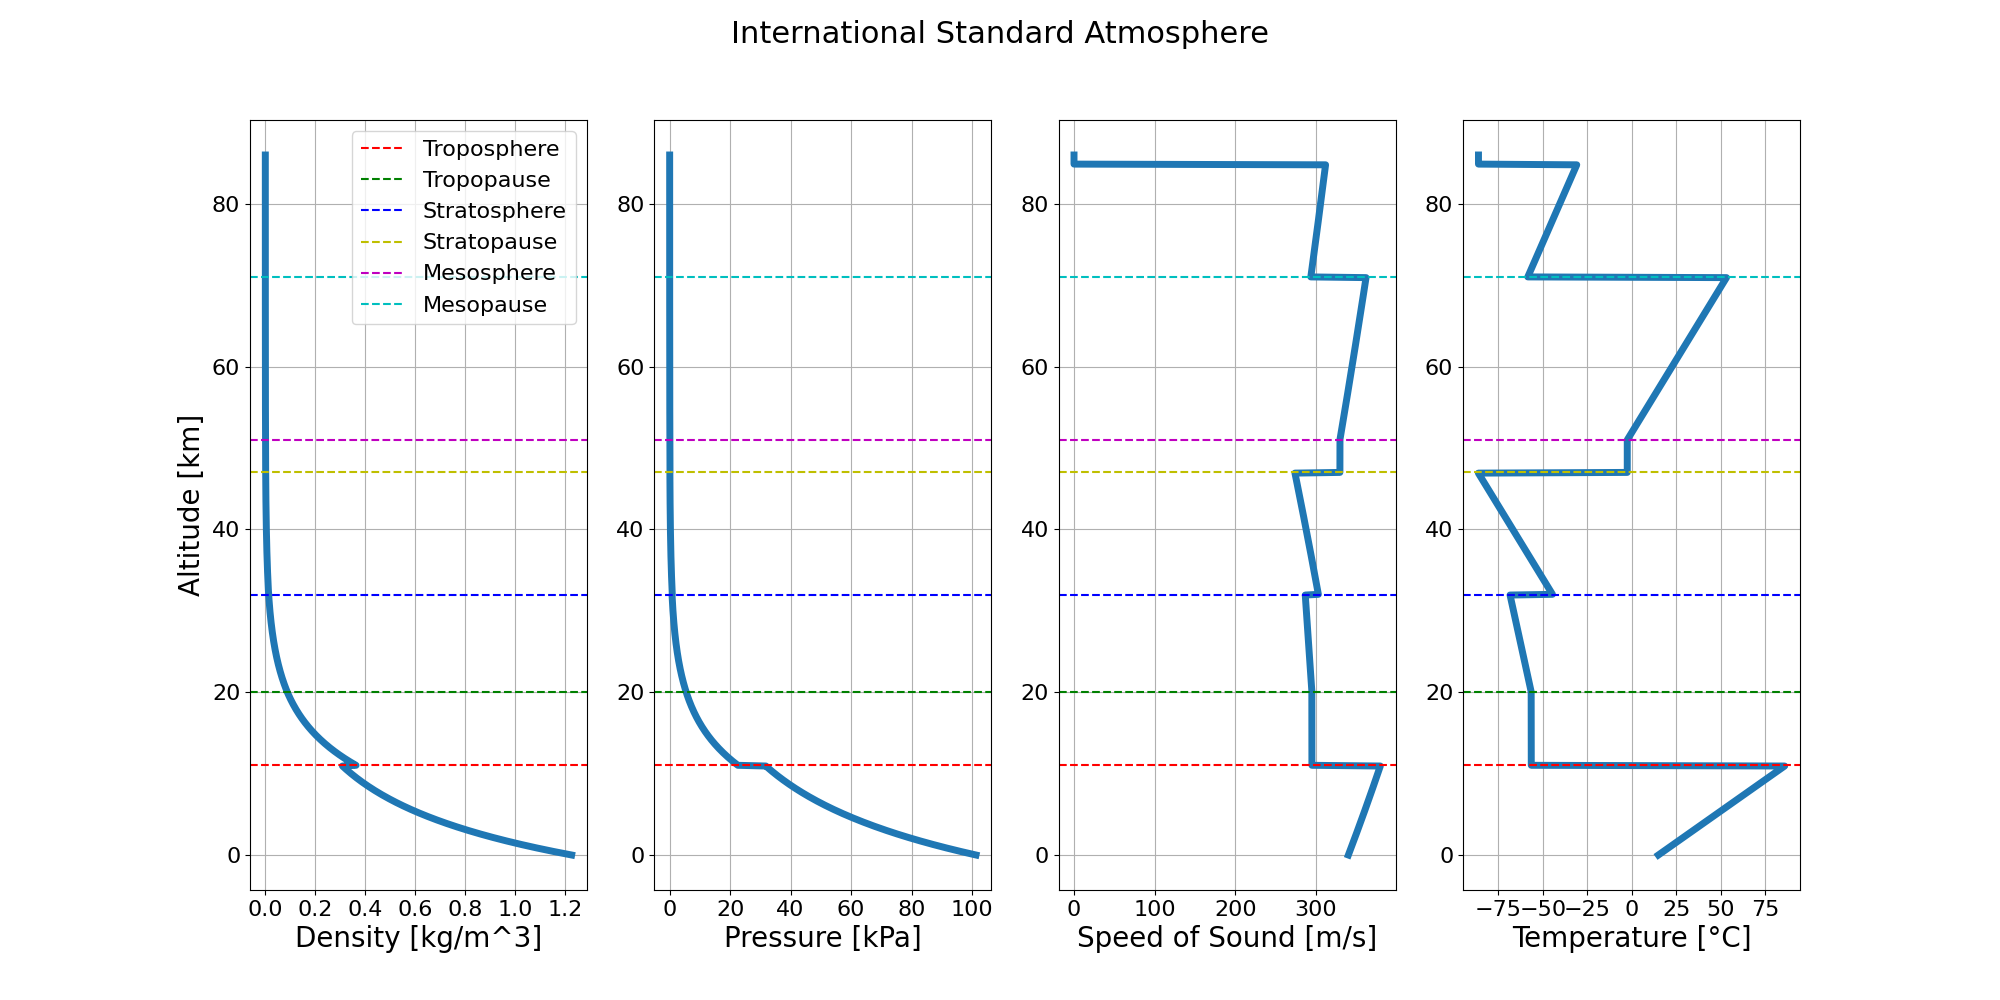
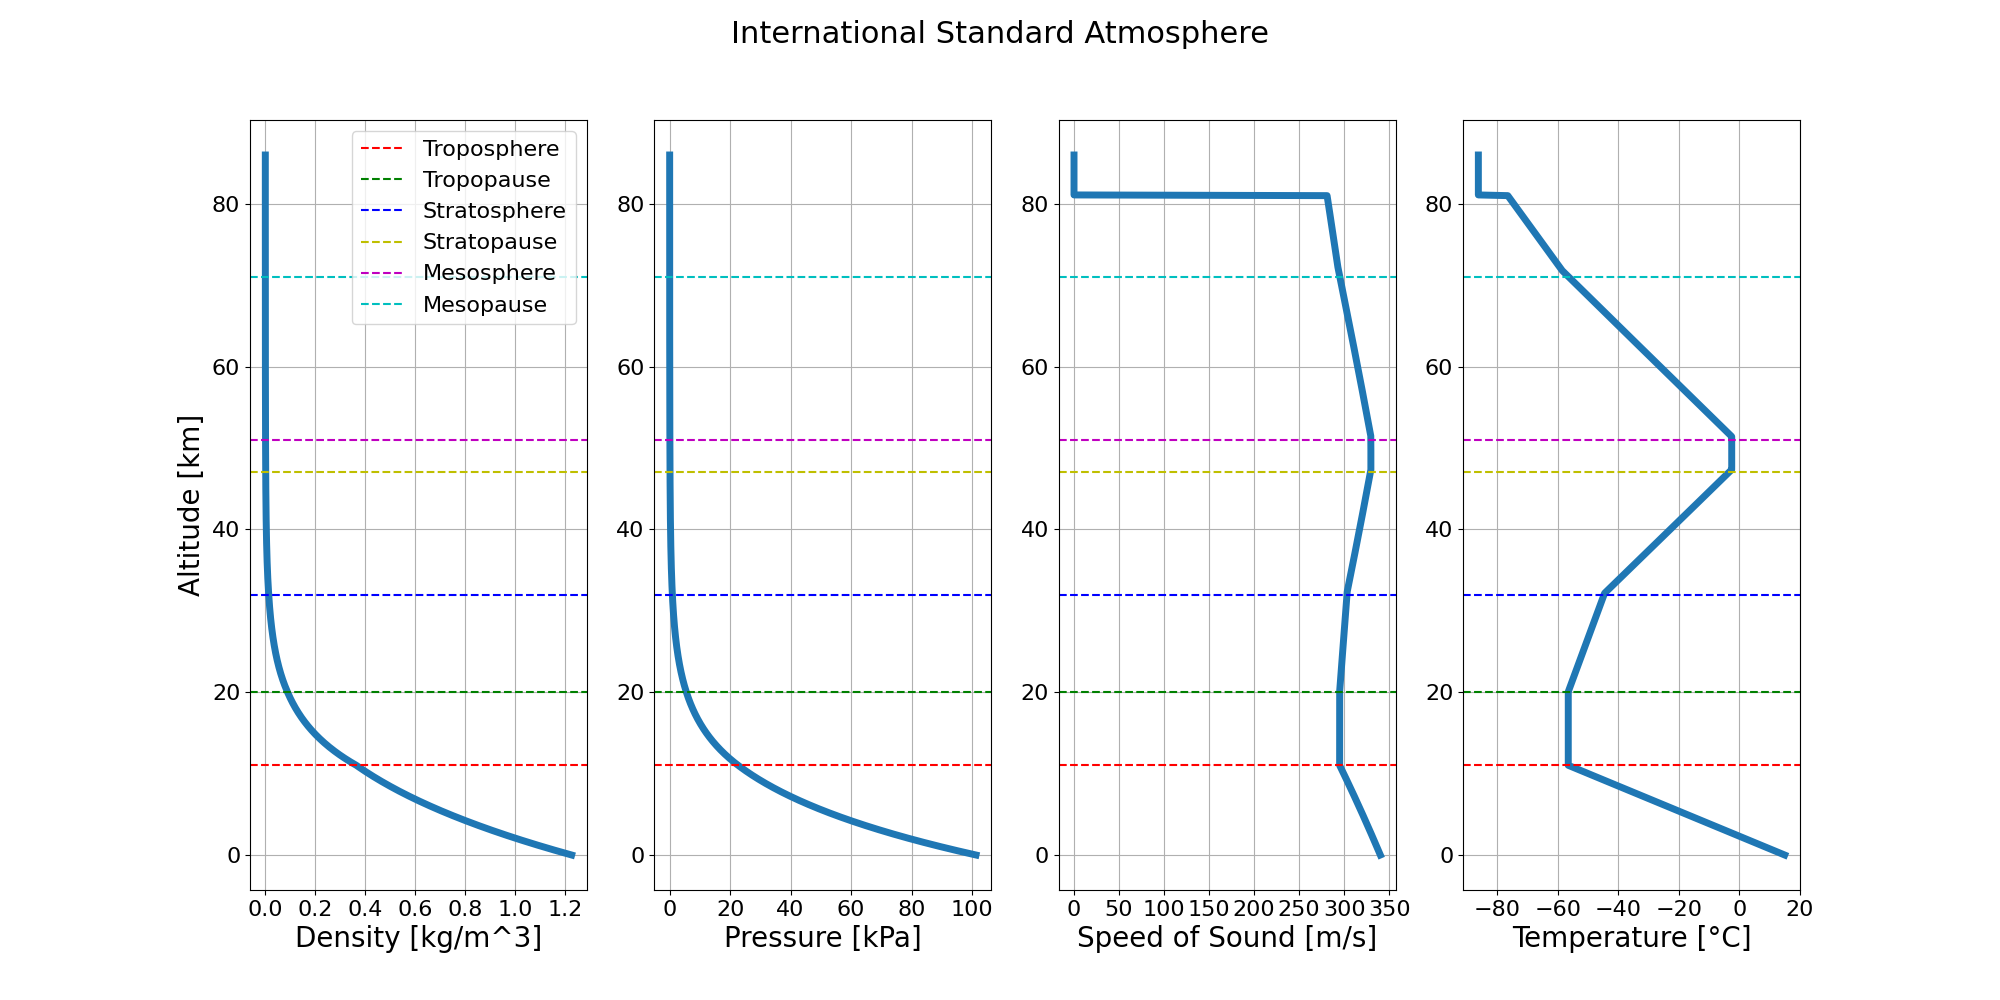
ISAfixed

diff --git a/src/envs/utils/atmosphere_dynamics.py b/src/envs/utils/atmosphere_dynamics.py
@@ -1,71 +1,30 @@
 import numpy as np
 import matplotlib.pyplot as plt
+from ambiance import Atmosphere
 
 def endo_atmospheric_model(alt, test_bool = False):
-    # Fundamental constants
-    R = 287.05
-    g0 = 9.80665
-    gamma = 1.4
-    
-    # Each tuple: (lower_bound [m], upper_bound [m], 
-    #             base_temp [K], base_pres [Pa], lapse_rate [K/m])
-    # https://en.wikipedia.org/wiki/International_Standard_Atmosphere
-    # Data derived from the standard atmosphere table
-    # 0–11 km: Troposphere
-    # 11–20 km: Tropopause (isothermal)
-    # 20–32 km: Stratosphere (lapse rate = -1.0 °C/km)
-    # 32–47 km: Stratosphere (lapse rate = -2.8 °C/km)
-    # 47–51 km: Stratopause (isothermal)
-    # 51–71 km: Mesosphere (lapse rate = +2.8 °C/km)
-    # 71–86 km: Mesosphere (lapse rate = +2.0 °C/km)
-    
-    layers = [
-        (    0.0, 11000.0, 288.15, 101325.0,  0.0065),   # Troposphere
-        (11000.0, 20000.0, 216.65, 22632.0,    0.0   ),   # Tropopause
-        (20000.0, 32000.0, 216.65, 5474.9,    -0.0010),   # Stratosphere (lower)
-        (32000.0, 47000.0, 228.65, 868.02,    -0.0028),   # Stratosphere (upper)
-        (47000.0, 51000.0, 270.65, 110.91,     0.0   ),   # Stratopause
-        (51000.0, 71000.0, 270.65, 66.939,     0.0028),   # Mesosphere (lower)
-        (71000.0, 84852.0, 214.65, 3.9564,     0.0020),   # Mesosphere (upper)
-    ]
-
-    
-    # Clamp altitude if exceeding table range
+    # rho : Air density [kg/m^3]
+    # P : Air pressure [Pa]
+    # a : Speed of sound [m/s]
+    # T : Air temperature [K]
     if alt < 0:
         alt = 0
-    if alt > 84852.0:
-        print(f'Entering exo-atmosphere, change model.')
+    if alt < 81020:
+        instance = Atmosphere(alt)
+        rho = float(instance.density[0])
+        P = float(instance.pressure[0])
+        a = float(instance.speed_of_sound[0])
+        T = float(instance.temperature[0])
+    else:
         rho = 0.0
         P = 0.0
         a = 0.0
         T = 186.946
-        if test_bool:
-                return rho, P, a, T
-        else:
-            return rho, P, a
 
-    # Find the relevant layer
-    for i in range(len(layers)):
-        (h_base, h_top, T_base, P_base, alpha) = layers[i]
-        
-        # If altitude is in this layer
-        if (alt >= h_base) and (alt <= h_top):
-            if alpha != 0.0:
-                # Temperature with lapse rate
-                T = T_base + alpha * (alt - h_base)
-                # Pressure with lapse rate
-                P = P_base * (T / T_base) ** (-g0 / (alpha * R))
-            else:
-                # Isothermal layer
-                T = T_base
-                P = P_base * np.exp(-g0 * (alt - h_base) / (R * T))
-            
-            rho = P / (R * T)
-            a = np.sqrt(gamma * R * T)
-            if test_bool:
-                return rho, P, a, T
-            else:
-                return rho, P, a
+    if test_bool:
+        return rho, P, a, T
+    else:
+        return rho, P, a
 
 def gravity_model_endo(altitude):
     R = 6371000                             # Earth radius [m]
@@ -74,7 +33,7 @@ def gravity_model_endo(altitude):
     return g
 
 def test_atmosphere_model():
-    tol = 1e-2  # acceptable relative tolerance
+    tol = 5e-2  # acceptable relative tolerance
 
     # Known values from standard atmosphere tables (ISA)
     # Format: (Altitude [m], Density [kg/m^3], Pressure [Pa], expected_a [m/s], expected_T [K])
@@ -84,7 +43,6 @@ def test_atmosphere_model():
         (20000.0, 0.08803,   5474.9,   295.1, 216.65),    # Strat. lower
         (32000.0, 0.01322,   868.02,   301.6, 228.65),    # Strat. upper
         (47000.0, 0.00143,   110.91,   329.8, 270.65),    # Stratopause
-        (71000.0, 0.000064,  3.9564,   295.0, 214.65),    # Mesopause
     ]
 
     for alt, rho_ref, p_ref, a_ref, T_ref in test_cases:
@@ -127,8 +85,7 @@ if __name__ == '__main__':
         a_values.append(a)
         g_values.append(gravity_model_endo(alt))
         T_values.append(T)
-
-    T_values_degC = np.array(T_values) - 273.15
+    T_values_degC = np.array([T - 273.15 for T in T_values])
     # Now plot x as density and y as altitude
     plt.figure(figsize=(20, 10))
     plt.suptitle('International Standard Atmosphere', fontsize=22)
